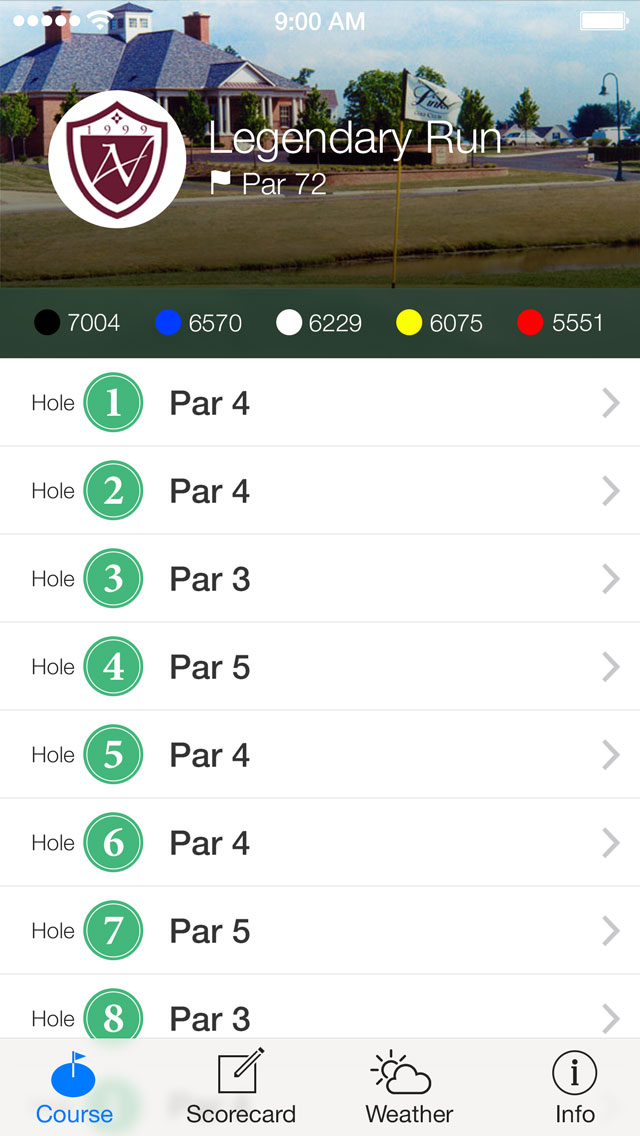
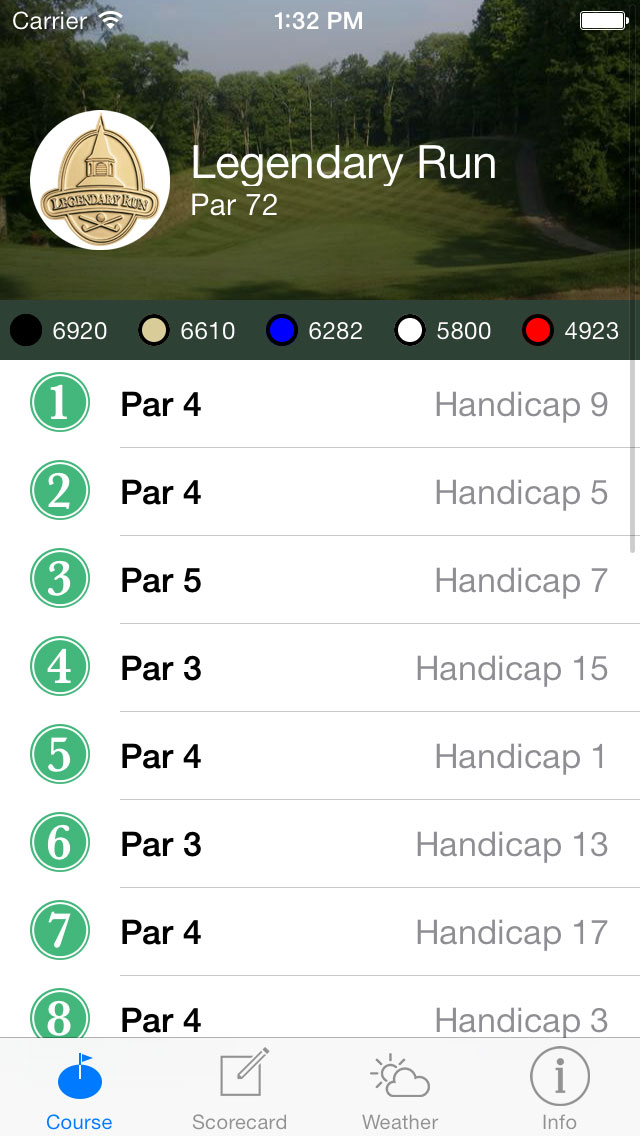
new 5 image, working on draft

diff --git a/_site/index.html b/_site/index.html
@@ -205,22 +205,47 @@ _gaq.push(['_trackPageview']);
         <section id="site-content">
             
 <article class="article">
-    <h2 class="article-title"><a title="Iterating to an Ugly UI" href="/2013/10/16/2013-10-16-Iterating-to-an-Ugly-UI">Iterating to an Ugly UI</a></h2>
-    <time class="timestamp" datetime="October 16, 2013" pubdate>Wednesday, 16 October 2013</time>
-    <ul>
-<li>explain golf app constraints</li>
-<li>course view
+    <h2 class="article-title"><a title="Iterating to an Ugly UI" href="/2013/10/17/2013-10-16-Iterating-to-an-Ugly-UI">Iterating to an Ugly UI</a></h2>
+    <time class="timestamp" datetime="October 17, 2013" pubdate>Thursday, 17 October 2013</time>
+    <p>Lately I've been working on a golfing app that shows ranges and weather conditions for a course. The concept and app are quite simple. I decided to spend significantly more time on perfecting the utilitarian design.</p>
+
+<p>After designing the basic tab-bar navigation, I needed to design the very first view that the user would see. The first view is a list of holes on the course with some branding and supplementary information.</p>
+
+<p>Here are some table cell sketches I made for the course view.</p>
+
+<p><a href="http://whoisryannystrom.com/img/2013-10-15/sketch.jpg" title="http://whoisryannystrom.com/img/2013-10-15/sketch.jpg"><img class="wide" src="http://whoisryannystrom.com/img/2013-10-15/sketch.jpg" alt="Initial course list sketch" /></a></p>
+
+<p>My natural inclination is to hop onto <a href="http://dribbble.com">Dribbble</a> and see what the latest trends are. I've studied search tags long enough to immediately search for <a href="http://dribbble.com/search?q=ios7+list">"ios7 list"</a> and sort by "Most Popular".</p>
+
+<p>I took the Dribbble search results and created my first design.</p>
+
+<p><a href="http://whoisryannystrom.com/img/2013-10-15/1.jpg"><img width="320" src="http://whoisryannystrom.com/img/2013-10-15/1.jpg" alt="First Design Concept" /></a></p>
+
+<p>This first design uses iOS 7 style blurring with the background image. The information layout is pretty sparse though. Each hole only shows the hole number, par, and yardage for a single tee. Pretty weak use of space.</p>
+
+<p>The spacing between each hole would allow for some fun, staggered animations. Maybe keep the blurred background and fade in the map of the hole? Its iOS 7 right? Animations to the dome.</p>
+
+<p>One thing that I really took away from the first design is the hole number green with white inner border. Golfers should be familiar with <a href="http://cdn.firespring.com/images/6be767fc-d804-45d5-b4d3-aa4411785276.jpg">this style</a> of signage.</p>
+
+<p><a href="http://whoisryannystrom.com/img/2013-10-15/2.jpg"><img width="320" src="http://whoisryannystrom.com/img/2013-10-15/2.jpg" alt="Second Design Concept" /></a></p>
+
+<p>The second design iterates on the first by only adding a feint line connecting each hole. The line reinforces the order of each hole, mimicking the golf cart trail between each. The actual data that's displayed doesn't change from the first design.</p>
+
+<p><a href="http://whoisryannystrom.com/img/2013-10-15/3.jpg"><img width="320" src="http://whoisryannystrom.com/img/2013-10-15/3.jpg" alt="Third Design Concept" /></a></p>
+
+<p>Nothing much to see here, just a layout rearrangement. The benefit is that there are more holes on the screen at a time.</p>
+
+<p><a href="http://whoisryannystrom.com/img/2013-10-15/4.jpg"><img width="320" src="http://whoisryannystrom.com/img/2013-10-15/4.jpg" alt="Fourth Design Concept" /></a></p>
+
+<p>The fourth design is complete chaos. I got carried away with the idea that "more holes on the screen" = "better layout". I'm sure you can see how chaotic this screen is.</p>
+
+<p><a href="http://whoisryannystrom.com/img/2013-10-15/5.jpg"><img width="320" src="http://whoisryannystrom.com/img/2013-10-15/5.jpg" alt="Final Design Concept" /></a></p>
+
+<p>The fifth and final design heads in a completely different direction than where I started. I decided to refocus my efforts, delete my "Dribbble Inspiration" folder, and think critically about the usage of this single view.</p>
+
+<p>I realized that high-contrast was extremely important because golfers were very likely to be in direct sunlight trying to read on a glossy, finger-smudged screen. So, I got rid of the background blur.</p>
 
 <ul>
-<li>holes</li>
-<li>branding</li>
-<li>total yardage</li>
-<li>par</li>
-<li>course title</li>
-</ul>
-</li>
-<li>start w/ drawings</li>
-<li>go to dribble, search "iOS 7 list", table, etc</li>
 <li>explain each iteration</li>
 <li>interactions &amp; animations</li>
 <li>throw it all away and focus utility</li>

diff --git a/_drafts/2013-10-16-Iterating-to-an-Ugly-UI.md b/_drafts/2013-10-16-Iterating-to-an-Ugly-UI.md
@@ -3,15 +3,44 @@ layout: post
 title: Iterating to an Ugly UI
 ---
 
-- explain golf app constraints
-- course view
-	- holes
-	- branding
-	- total yardage
-	- par
-	- course title
-- start w/ drawings
-- go to dribble, search "iOS 7 list", table, etc
+Lately I've been working on a golfing app that shows ranges and weather conditions for a course. The concept and app are quite simple. I decided to spend significantly more time on perfecting the utilitarian design.
+
+After designing the basic tab-bar navigation, I needed to design the very first view that the user would see. The first view is a list of holes on the course with some branding and supplementary information. 
+
+Here are some table cell sketches I made for the course view.
+
+<a href="http://whoisryannystrom.com/img/2013-10-15/sketch.jpg" title="http://whoisryannystrom.com/img/2013-10-15/sketch.jpg"><img class="wide" src="http://whoisryannystrom.com/img/2013-10-15/sketch.jpg" alt="Initial course list sketch" /></a>
+
+My natural inclination is to hop onto [Dribbble](http://dribbble.com) and see what the latest trends are. I've studied search tags long enough to immediately search for ["ios7 list"](http://dribbble.com/search?q=ios7+list) and sort by "Most Popular".
+
+I took the Dribbble search results and created my first design.
+
+[<img width="320" src="http://whoisryannystrom.com/img/2013-10-15/1.jpg" alt="First Design Concept" />](http://whoisryannystrom.com/img/2013-10-15/1.jpg)
+
+This first design uses iOS 7 style blurring with the background image. The information layout is pretty sparse though. Each hole only shows the hole number, par, and yardage for a single tee. Pretty weak use of space.
+
+The spacing between each hole would allow for some fun, staggered animations. Maybe keep the blurred background and fade in the map of the hole? Its iOS 7 right? Animations to the dome.
+
+One thing that I really took away from the first design is the hole number green with white inner border. Golfers should be familiar with [this style](http://cdn.firespring.com/images/6be767fc-d804-45d5-b4d3-aa4411785276.jpg) of signage.
+
+[<img width="320" src="http://whoisryannystrom.com/img/2013-10-15/2.jpg" alt="Second Design Concept" />](http://whoisryannystrom.com/img/2013-10-15/2.jpg)
+
+The second design iterates on the first by only adding a feint line connecting each hole. The line reinforces the order of each hole, mimicking the golf cart trail between each. The actual data that's displayed doesn't change from the first design.
+
+[<img width="320" src="http://whoisryannystrom.com/img/2013-10-15/3.jpg" alt="Third Design Concept" />](http://whoisryannystrom.com/img/2013-10-15/3.jpg)
+
+Nothing much to see here, just a layout rearrangement. The benefit is that there are more holes on the screen at a time.
+
+[<img width="320" src="http://whoisryannystrom.com/img/2013-10-15/4.jpg" alt="Fourth Design Concept" />](http://whoisryannystrom.com/img/2013-10-15/4.jpg)
+
+The fourth design is complete chaos. I got carried away with the idea that "more holes on the screen" = "better layout". I'm sure you can see how chaotic this screen is.
+
+[<img width="320" src="http://whoisryannystrom.com/img/2013-10-15/5.jpg" alt="Final Design Concept" />](http://whoisryannystrom.com/img/2013-10-15/5.jpg)
+
+The fifth and final design heads in a completely different direction than where I started. I decided to refocus my efforts, delete my "Dribbble Inspiration" folder, and think critically about the usage of this single view.
+
+I realized that high-contrast was extremely important because golfers were very likely to be in direct sunlight trying to read on a glossy, finger-smudged screen. So, I got rid of the background blur.
+
 - explain each iteration
 - interactions & animations
 - throw it all away and focus utility
